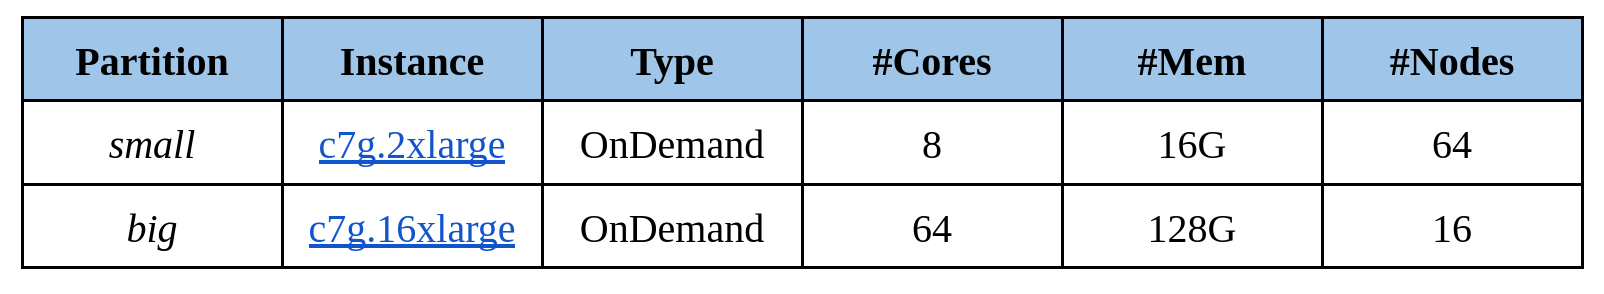
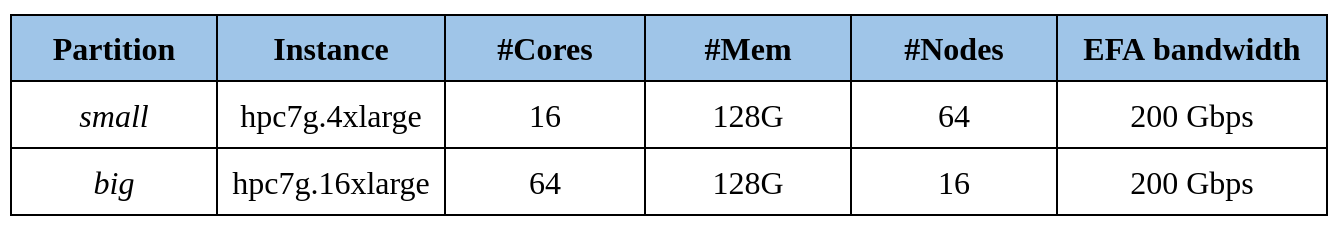
[AWS] -- second call -- updated documentation

diff --git a/docs/aws/setup.md b/docs/aws/setup.md
@@ -3,7 +3,348 @@
 AWS suggest to use Spack to setup your software environment. There is no hard requirement that you must use Spack. However we have included it here, as it is a quick, simple way to setup a development environment.
 The official ULHPC swsets are not available on the AWS cluster. If you prefer to use [EasyBuild](../environment/easybuild) or manually compile softwares, please refer to the [ULHPC software documentation](../software/build) for this purpose.
 
-## Install [Spack](ihttps://spack.io/)
+
+## Environment modules and LMod ##
+
+Like the ULHPC facility, the AWS cluster  relies on the [Environment Modules](http://modules.sourceforge.net/) / [LMod](http://lmod.readthedocs.io/en/latest/) framework which provided the [`module`](http://lmod.readthedocs.io) utility **on Compute nodes**
+to manage nearly all software.
+There are two main advantages of the `module` approach:
+
+1. ULHPC can provide many different versions and/or installations of a
+   single software package on a given machine, including a default
+   version as well as several older and newer version.
+2. Users can easily switch to different versions or installations
+   without having to explicitly specify different paths. With modules,
+   the `PATH` and related environment variables (`LD_LIBRARY_PATH`, `MANPATH`, etc.) are automatically managed.
+
+[Environment Modules](http://modules.sourceforge.net/) in itself are a standard and well-established technology across HPC sites, to permit developing and using complex software and libraries build with dependencies, allowing multiple versions of software stacks and combinations thereof to co-exist.
+It **brings the `module` command** which is used to manage environment variables such as `PATH`, `LD_LIBRARY_PATH` and `MANPATH`, enabling the easy loading and unloading of application/library profiles and their dependencies.
+
+See <https://hpc-docs.uni.lu/environment/modules/> for more details
+
+
+| Command                        | Description                                                   |
+|--------------------------------|---------------------------------------------------------------|
+| `module avail`                 | Lists all the modules which are available to be loaded        |
+| `module spider <pattern>`      | Search for <pattern> among available modules **(Lmod only)**  |
+| `module load <mod1> [mod2...]` | Load a module                                                 |
+| `module unload <module>`       | Unload a module                                               |
+| `module list`                  | List loaded modules                                           |
+| `module purge`                 | Unload all modules (purge)                                    |
+| `module display <module>`      | Display what a module does                                    |
+| `module use <path>`            | Prepend the directory to the MODULEPATH environment variable  |
+| `module unuse <path>`          | Remove the directory from the MODULEPATH environment variable |
+
+At the heart of environment modules interaction resides the following components:
+
+* the `MODULEPATH` environment variable, which defines the list of searched directories for modulefiles
+* `modulefile`
+
+Take a look at the current values:
+
+```bash
+$ echo $MODULEPATH
+/shared/apps/easybuild/modules/all:/usr/share/Modules/modulefiles:/etc/modulefiles:/usr/share/modulefiles/Linux:/usr/share/modulefiles/Core:/usr/share/lmod/lmod/modulefiles/Core
+$ module show toolchain/foss
+-------------------------------------------------------------------------------------------------------------------------------------------------------------------------------------------------------------------------------------------------------------------------------------------------------------------------------------------------
+   /shared/apps/easybuild/modules/all/toolchain/foss/2022b.lua:
+-------------------------------------------------------------------------------------------------------------------------------------------------------------------------------------------------------------------------------------------------------------------------------------------------------------------------------------------------
+help([[
+Description
+===========
+GNU Compiler Collection (GCC) based compiler toolchain, including
+ OpenMPI for MPI support, OpenBLAS (BLAS and LAPACK support), FFTW and ScaLAPACK.
+
+
+More information
+================
+ - Homepage: https://easybuild.readthedocs.io/en/master/Common-toolchains.html#foss-toolchain
+]])
+whatis("Description: GNU Compiler Collection (GCC) based compiler toolchain, including
+ OpenMPI for MPI support, OpenBLAS (BLAS and LAPACK support), FFTW and ScaLAPACK.")
+whatis("Homepage: https://easybuild.readthedocs.io/en/master/Common-toolchains.html#foss-toolchain")
+whatis("URL: https://easybuild.readthedocs.io/en/master/Common-toolchains.html#foss-toolchain")
+conflict("toolchain/foss")
+load("compiler/GCC/12.2.0")
+load("mpi/OpenMPI/4.1.4-GCC-12.2.0")
+load("lib/FlexiBLAS/3.2.1-GCC-12.2.0")
+load("numlib/FFTW/3.3.10-GCC-12.2.0")
+load("numlib/FFTW.MPI/3.3.10-gompi-2022b")
+load("numlib/ScaLAPACK/2.2.0-gompi-2022b-fb")
+setenv("EBROOTFOSS","/shared/apps/easybuild/software/foss/2022b")
+setenv("EBVERSIONFOSS","2022b")
+setenv("EBDEVELFOSS","/shared/apps/easybuild/software/foss/2022b/easybuild/toolchain-foss-2022b-easybuild-devel")
+```
+Now you can search for a given software using `module spider <pattern>`:
+
+```bash
+$  module spider lang/Python
+------------------------------------------------------------------------------------------------------------------------------------------------------------------------------------------------------------------------------------------------------------------------------------------------------------------
+  lang/Python:
+------------------------------------------------------------------------------------------------------------------------------------------------------------------------------------------------------------------------------------------------------------------------------------------------------------------
+    Description:
+      Python is a programming language that lets you work more quickly and integrate your systems more effectively.
+
+     Versions:
+        lang/Python/3.10.8-GCCcore-12.2.0-bare
+        lang/Python/3.10.8-GCCcore-12.2.0
+
+------------------------------------------------------------------------------------------------------------------------------------------------------------------------------------------------------------------------------------------------------------------------------------------------------------------
+  For detailed information about a specific "lang/Python" module (including how to load the modules) use the module's full name.
+  For example:
+
+     $ module spider lang/Python/3.10.8-GCCcore-12.2.0
+------------------------------------------------------------------------------------------------------------------------------------------------------------------------------------------------------------------------------------------------------------------------------------------------------------------
+```
+
+Let's see the effect of loading/unloading a module
+
+```bash
+$ module list
+No modules loaded
+$ which python
+/usr/bin/python
+$ python --version       # System level python
+Python 2.7.18
+
+$ module load lang/Python    # use TAB to auto-complete
+$ which python
+/shared/apps/easybuild/software/Python/3.10.8-GCCcore-12.2.0/bin/python
+$ python --version
+Python 3.10.8
+$ module purge
+```
+
+## Installing softwares with [Easybuild](https://easybuild.io/)
+
+[<img width='150px' src='https://easybuild.io/images/easybuild_logo_horizontal.png'/>](https://easybuilders.github.io/easybuild/)
+
+EasyBuild is a tool that allows to perform automated and reproducible compilation and installation of software. A large number of scientific software are supported (**[2995 supported software packages](http://easybuild.readthedocs.io/en/latest/version-specific/Supported_software.html)** in the last release 4.8.0) -- see also [What is EasyBuild?](http://easybuild.readthedocs.io/en/latest/Introduction.html)
+
+All builds and installations are performed at user level, so you don't need the admin (i.e. `root`) rights.
+The software are installed in your home directory under `$EASYBUILD_PREFIX` -- see <https://hpc-docs.uni.lu/environment/easybuild/>
+
+|                     | Default setting (local)  | Recommended setting       |
+|---------------------|--------------------------|---------------------------|
+| `$EASYBUILD_PREFIX` | `$HOME/.local/easybuild` | `/shared/apps/easybuild/` |
+|                     |                          |                           |
+
+* built software are placed under `${EASYBUILD_PREFIX}/software/`
+* modules install path `${EASYBUILD_PREFIX}/modules/all`
+
+
+### Easybuild main concepts
+
+See also the [official Easybuild Tutorial: "Maintaining a Modern Scientific Software Stack Made Easy with EasyBuild"](https://easybuilders.github.io/easybuild-tutorial/2021-isc21/)
+
+EasyBuild relies on two main concepts: *Toolchains* and *EasyConfig files*.
+
+A **toolchain** corresponds to a compiler and a set of libraries which are commonly used to build a software.
+The two main toolchains frequently used on the UL HPC platform are the `foss` ("_Free and Open Source Software_") and the `intel` one.
+
+1. `foss`  is based on the GCC compiler and on open-source libraries (OpenMPI, OpenBLAS, etc.).
+2. `intel` is based on the Intel compiler and on Intel libraries (Intel MPI, Intel Math Kernel Library, etc.).
+
+An **EasyConfig file** is a simple text file that describes the build process of a software. For most software that uses standard procedures (like `configure`, `make` and `make install`), this file is very simple.
+Many [EasyConfig files](https://github.com/easybuilders/easybuild-easyconfigs/tree/master/easybuild/easyconfigs) are already provided with EasyBuild.
+By default, EasyConfig files and generated modules are named using the following convention:
+`<Software-Name>-<Software-Version>-<Toolchain-Name>-<Toolchain-Version>`.
+However, we use a **hierarchical** approach where the software are classified under a category (or class) -- see  the `CategorizedModuleNamingScheme` option for the `EASYBUILD_MODULE_NAMING_SCHEME` environmental variable), meaning that the layout will respect the following hierarchy:
+`<Software-Class>/<Software-Name>/<Software-Version>-<Toolchain-Name>-<Toolchain-Version>`
+
+Additional details are available on EasyBuild website:
+
+- [EasyBuild homepage](https://easybuilders.github.io/easybuild/)
+- [EasyBuild documentation](http://easybuild.readthedocs.io/)
+- [What is EasyBuild?](http://easybuild.readthedocs.io/en/latest/Introduction.html)
+- [Toolchains](https://github.com/easybuilders/easybuild/wiki/Compiler-toolchains)
+- [EasyConfig files](http://easybuild.readthedocs.io/en/latest/Writing_easyconfig_files.html)
+- [List of supported software packages](http://easybuild.readthedocs.io/en/latest/version-specific/Supported_software.html)
+
+Easybuild is provided to you as a software module to complement the existing software set. 
+
+``` bash
+module load tools/EasyBuild
+```
+
+In case you cant to install the latest version yourself, please follow [the official instructions](http://easybuild.readthedocs.io/en/latest/Installation.html).
+Nonetheless, we strongly recommand to use the provided module.
+**Don't forget** to setup your local Easybuild configuration first.
+
+What is important for the installation of Easybuild are the following variables:
+
+* `EASYBUILD_PREFIX`: where to install **local** modules and software, _i.e._ `$HOME/.local/easybuild`
+* `EASYBUILD_MODULES_TOOL`: the type of [modules](http://modules.sourceforge.net/) tool you are using, _i.e._ `LMod` in this case
+* `EASYBUILD_MODULE_NAMING_SCHEME`: the way the software and modules should be organized (flat view or hierarchical) -- we're advising on `CategorizedModuleNamingScheme`
+
+!!! danger "Important"
+    * Recall that **you should be on a compute node to install [Easybuild](http://easybuild.readthedocs.io)** (otherwise the checks of the `module` command availability will fail.)
+
+### Install a missing software by complementing the software set
+
+The current software set contains the toolchain [foss-2022b](https://docs.easybuild.io/common-toolchains/#common_toolchains_update_cycle) that is necessary to build other softwares. We have build OpenMPI-4.1.4 to take in account the latest AWS EFA and the slurm integration.
+In order to install missing softwares for your project, you can complement the existing software set located at `/shared/apps/easybuild` by using the provided EasyBuild module (latest version).   
+Once Easybuild has been loaded, you can search and install new softwares. By default, these new softwares will be installed at `${HOME}/.local/easybuild`. Feel free to adapt the environment variable `${EASYBUILD_PREFIX}` to select a new installation directory. 
+
+Let's try to install a missing software
+
+``` bash
+(heanode)$ srun -p small -N 1 -n1 -c16  --pty bash -i
+(node)$ module spider HPL   # HPL is a software package that solves a (random) dense linear system in double precision (64 bits)
+Lmod has detected the following error:  Unable to find: "HPL".
+(node)$ module load tools/EasyBuild
+# Search for recipes for the missing software
+(node)$ eb -S HPL
+== found valid index for /shared/apps/easybuild/software/EasyBuild/4.8.0/easybuild/easyconfigs, so using it...
+CFGS1=/shared/apps/easybuild/software/EasyBuild/4.8.0/easybuild/easyconfigs
+ * $CFGS1/b/bashplotlib/bashplotlib-0.6.5-GCCcore-10.3.0.eb
+ * $CFGS1/h/HPL/HPL-2.1-foss-2016.04.eb
+ * $CFGS1/h/HPL/HPL-2.1-foss-2016.06.eb
+ * $CFGS1/h/HPL/HPL-2.1-foss-2016a.eb
+ * $CFGS1/h/HPL/HPL-2.1-foss-2016b.eb
+ ...
+ * $CFGS1/h/HPL/HPL-2.3-foss-2022a.eb
+ * $CFGS1/h/HPL/HPL-2.3-foss-2022b.eb
+ * $CFGS1/h/HPL/HPL-2.3-foss-2023a.eb
+ ...
+ * $CFGS1/h/HPL/HPL-2.3-intel-2022b.eb
+ * $CFGS1/h/HPL/HPL-2.3-intel-2023.03.eb
+ * $CFGS1/h/HPL/HPL-2.3-intel-2023a.eb
+ * $CFGS1/h/HPL/HPL-2.3-intelcuda-2019b.eb
+ * $CFGS1/h/HPL/HPL-2.3-intelcuda-2020a.eb
+ * $CFGS1/h/HPL/HPL-2.3-iomkl-2019.01.eb
+ * $CFGS1/h/HPL/HPL-2.3-iomkl-2021a.eb
+ * $CFGS1/h/HPL/HPL-2.3-iomkl-2021b.eb
+ * $CFGS1/h/HPL/HPL_parallel-make.patch
+```
+
+
+From this list, you should select the version matching the target toolchain version -- here [foss-2022b](https://docs.easybuild.io/common-toolchains/#common_toolchains_update_cycle).
+
+Once you pick a given recipy, install it with
+
+       eb <name>.eb [-D] -r
+
+* `-D` enables the dry-run mode to check what's going to be install -- **ALWAYS try it first**
+* `-r` enables the robot mode to automatically install all dependencies while searching for easyconfigs in a set of pre-defined directories -- you can also prepend new directories to search for eb files (like the current directory `$PWD`) using the option and syntax `--robot-paths=$PWD:` (do not forget the ':'). See [Controlling the robot search path documentation](http://easybuild.readthedocs.io/en/latest/Using_the_EasyBuild_command_line.html#controlling-the-robot-search-path)
+* The `$CFGS<n>/` prefix should be dropped unless you know what you're doing (and thus have previously defined the variable -- see the first output of the `eb -S [...]` command).
+
+Let's try to review the missing dependencies from a dry-run :
+
+``` bash
+# Select the one matching the target software set version
+(node)$ eb HPL-2.3-foss-2022b.eb -Dr   # Dry-run
+== Temporary log file in case of crash /tmp/eb-lzv785be/easybuild-ihga94y0.log
+== found valid index for /shared/apps/easybuild/software/EasyBuild/4.8.0/easybuild/easyconfigs, so using it...
+== found valid index for /shared/apps/easybuild/software/EasyBuild/4.8.0/easybuild/easyconfigs, so using it...
+Dry run: printing build status of easyconfigs and dependencies
+CFGS=/shared/apps/easybuild/software/EasyBuild/4.8.0/easybuild/easyconfigs
+ * [x] $CFGS/m/M4/M4-1.4.19.eb (module: devel/M4/1.4.19)
+ * [x] $CFGS/b/Bison/Bison-3.8.2.eb (module: lang/Bison/3.8.2)
+ * [x] $CFGS/f/flex/flex-2.6.4.eb (module: lang/flex/2.6.4)
+ * [x] $CFGS/z/zlib/zlib-1.2.12.eb (module: lib/zlib/1.2.12)
+ * [x] $CFGS/b/binutils/binutils-2.39.eb (module: tools/binutils/2.39)
+ * [x] $CFGS/g/GCCcore/GCCcore-12.2.0.eb (module: compiler/GCCcore/12.2.0)
+ * [x] $CFGS/z/zlib/zlib-1.2.12-GCCcore-12.2.0.eb (module: lib/zlib/1.2.12-GCCcore-12.2.0)
+ * [x] $CFGS/h/help2man/help2man-1.49.2-GCCcore-12.2.0.eb (module: tools/help2man/1.49.2-GCCcore-12.2.0)
+ * [x] $CFGS/m/M4/M4-1.4.19-GCCcore-12.2.0.eb (module: devel/M4/1.4.19-GCCcore-12.2.0)
+ * [x] $CFGS/b/Bison/Bison-3.8.2-GCCcore-12.2.0.eb (module: lang/Bison/3.8.2-GCCcore-12.2.0)
+ * [x] $CFGS/f/flex/flex-2.6.4-GCCcore-12.2.0.eb (module: lang/flex/2.6.4-GCCcore-12.2.0)
+ * [x] $CFGS/b/binutils/binutils-2.39-GCCcore-12.2.0.eb (module: tools/binutils/2.39-GCCcore-12.2.0)
+ * [x] $CFGS/p/pkgconf/pkgconf-1.9.3-GCCcore-12.2.0.eb (module: devel/pkgconf/1.9.3-GCCcore-12.2.0)
+ * [x] $CFGS/g/groff/groff-1.22.4-GCCcore-12.2.0.eb (module: tools/groff/1.22.4-GCCcore-12.2.0)
+ * [x] $CFGS/n/ncurses/ncurses-6.3-GCCcore-12.2.0.eb (module: devel/ncurses/6.3-GCCcore-12.2.0)
+ * [x] $CFGS/e/expat/expat-2.4.9-GCCcore-12.2.0.eb (module: tools/expat/2.4.9-GCCcore-12.2.0)
+ * [x] $CFGS/b/bzip2/bzip2-1.0.8-GCCcore-12.2.0.eb (module: tools/bzip2/1.0.8-GCCcore-12.2.0)
+ * [x] $CFGS/g/GCC/GCC-12.2.0.eb (module: compiler/GCC/12.2.0)
+ * [x] $CFGS/f/FFTW/FFTW-3.3.10-GCC-12.2.0.eb (module: numlib/FFTW/3.3.10-GCC-12.2.0)
+ * [x] $CFGS/u/UnZip/UnZip-6.0-GCCcore-12.2.0.eb (module: tools/UnZip/6.0-GCCcore-12.2.0)
+ * [x] $CFGS/l/libreadline/libreadline-8.2-GCCcore-12.2.0.eb (module: lib/libreadline/8.2-GCCcore-12.2.0)
+ * [x] $CFGS/l/libtool/libtool-2.4.7-GCCcore-12.2.0.eb (module: lib/libtool/2.4.7-GCCcore-12.2.0)
+ * [x] $CFGS/m/make/make-4.3-GCCcore-12.2.0.eb (module: devel/make/4.3-GCCcore-12.2.0)
+ * [x] $CFGS/t/Tcl/Tcl-8.6.12-GCCcore-12.2.0.eb (module: lang/Tcl/8.6.12-GCCcore-12.2.0)
+ * [x] $CFGS/p/pkgconf/pkgconf-1.8.0.eb (module: devel/pkgconf/1.8.0)
+ * [x] $CFGS/s/SQLite/SQLite-3.39.4-GCCcore-12.2.0.eb (module: devel/SQLite/3.39.4-GCCcore-12.2.0)
+ * [x] $CFGS/o/OpenSSL/OpenSSL-1.1.eb (module: system/OpenSSL/1.1)
+ * [x] $CFGS/l/libevent/libevent-2.1.12-GCCcore-12.2.0.eb (module: lib/libevent/2.1.12-GCCcore-12.2.0)
+ * [x] $CFGS/c/cURL/cURL-7.86.0-GCCcore-12.2.0.eb (module: tools/cURL/7.86.0-GCCcore-12.2.0)
+ * [x] $CFGS/d/DB/DB-18.1.40-GCCcore-12.2.0.eb (module: tools/DB/18.1.40-GCCcore-12.2.0)
+ * [x] $CFGS/p/Perl/Perl-5.36.0-GCCcore-12.2.0.eb (module: lang/Perl/5.36.0-GCCcore-12.2.0)
+ * [x] $CFGS/a/Autoconf/Autoconf-2.71-GCCcore-12.2.0.eb (module: devel/Autoconf/2.71-GCCcore-12.2.0)
+ * [x] $CFGS/a/Automake/Automake-1.16.5-GCCcore-12.2.0.eb (module: devel/Automake/1.16.5-GCCcore-12.2.0)
+ * [x] $CFGS/a/Autotools/Autotools-20220317-GCCcore-12.2.0.eb (module: devel/Autotools/20220317-GCCcore-12.2.0)
+ * [x] $CFGS/n/numactl/numactl-2.0.16-GCCcore-12.2.0.eb (module: tools/numactl/2.0.16-GCCcore-12.2.0)
+ * [x] $CFGS/u/UCX/UCX-1.13.1-GCCcore-12.2.0.eb (module: lib/UCX/1.13.1-GCCcore-12.2.0)
+ * [x] $CFGS/l/libfabric/libfabric-1.16.1-GCCcore-12.2.0.eb (module: lib/libfabric/1.16.1-GCCcore-12.2.0)
+ * [x] $CFGS/l/libffi/libffi-3.4.4-GCCcore-12.2.0.eb (module: lib/libffi/3.4.4-GCCcore-12.2.0)
+ * [x] $CFGS/x/xorg-macros/xorg-macros-1.19.3-GCCcore-12.2.0.eb (module: devel/xorg-macros/1.19.3-GCCcore-12.2.0)
+ * [x] $CFGS/l/libpciaccess/libpciaccess-0.17-GCCcore-12.2.0.eb (module: system/libpciaccess/0.17-GCCcore-12.2.0)
+ * [x] $CFGS/u/UCC/UCC-1.1.0-GCCcore-12.2.0.eb (module: lib/UCC/1.1.0-GCCcore-12.2.0)
+ * [x] $CFGS/n/ncurses/ncurses-6.3.eb (module: devel/ncurses/6.3)
+ * [x] $CFGS/g/gettext/gettext-0.21.1.eb (module: tools/gettext/0.21.1)
+ * [x] $CFGS/x/XZ/XZ-5.2.7-GCCcore-12.2.0.eb (module: tools/XZ/5.2.7-GCCcore-12.2.0)
+ * [x] $CFGS/p/Python/Python-3.10.8-GCCcore-12.2.0-bare.eb (module: lang/Python/3.10.8-GCCcore-12.2.0-bare)
+ * [x] $CFGS/b/BLIS/BLIS-0.9.0-GCC-12.2.0.eb (module: numlib/BLIS/0.9.0-GCC-12.2.0)
+ * [x] $CFGS/o/OpenBLAS/OpenBLAS-0.3.21-GCC-12.2.0.eb (module: numlib/OpenBLAS/0.3.21-GCC-12.2.0)
+ * [x] $CFGS/l/libarchive/libarchive-3.6.1-GCCcore-12.2.0.eb (module: tools/libarchive/3.6.1-GCCcore-12.2.0)
+ * [x] $CFGS/l/libxml2/libxml2-2.10.3-GCCcore-12.2.0.eb (module: lib/libxml2/2.10.3-GCCcore-12.2.0)
+ * [x] $CFGS/c/CMake/CMake-3.24.3-GCCcore-12.2.0.eb (module: devel/CMake/3.24.3-GCCcore-12.2.0)
+ * [ ] $CFGS/h/hwloc/hwloc-2.8.0-GCCcore-12.2.0.eb (module: system/hwloc/2.8.0-GCCcore-12.2.0)
+ * [ ] $CFGS/p/PMIx/PMIx-4.2.2-GCCcore-12.2.0.eb (module: lib/PMIx/4.2.2-GCCcore-12.2.0)
+ * [x] $CFGS/o/OpenMPI/OpenMPI-4.1.4-GCC-12.2.0.eb (module: mpi/OpenMPI/4.1.4-GCC-12.2.0)
+ * [x] $CFGS/f/FlexiBLAS/FlexiBLAS-3.2.1-GCC-12.2.0.eb (module: lib/FlexiBLAS/3.2.1-GCC-12.2.0)
+ * [x] $CFGS/g/gompi/gompi-2022b.eb (module: toolchain/gompi/2022b)
+ * [x] $CFGS/f/FFTW.MPI/FFTW.MPI-3.3.10-gompi-2022b.eb (module: numlib/FFTW.MPI/3.3.10-gompi-2022b)
+ * [x] $CFGS/s/ScaLAPACK/ScaLAPACK-2.2.0-gompi-2022b-fb.eb (module: numlib/ScaLAPACK/2.2.0-gompi-2022b-fb)
+ * [x] $CFGS/f/foss/foss-2022b.eb (module: toolchain/foss/2022b)
+ * [ ] $CFGS/h/HPL/HPL-2.3-foss-2022b.eb (module: tools/HPL/2.3-foss-2022b)
+== Temporary log file(s) /tmp/eb-lzv785be/easybuild-ihga94y0.log* have been removed.
+== Temporary directory /tmp/eb-lzv785be has been removed.
+```
+Let's try to install it (remove the `-D`):
+
+``` bash
+# Select the one matching the target software set version
+(node)$ eb HPL-2.3-foss-2022b.eb -r
+```
+From now on, you should be able to see the new module.
+
+```bash
+(node)$  module spider HPL
+------------------------------------------------------------------------------------------------------------------------------------------------------------------------------------------------------------------------------------------------------------------------------------------------------------------
+  tools/HPL: tools/HPL/2.3-foss-2022b
+------------------------------------------------------------------------------------------------------------------------------------------------------------------------------------------------------------------------------------------------------------------------------------------------------------------
+    Description:
+      HPL is a software package that solves a (random) dense linear system in double precision (64 bits) arithmetic on distributed-memory computers. It can thus be regarded as a portable as well as freely available implementation of the High Performance Computing Linpack Benchmark.
+
+
+    This module can be loaded directly: module load tools/HPL/2.3-foss-2022b
+
+    Help:
+      
+      Description
+      ===========
+      HPL is a software package that solves a (random) dense linear system in double precision (64 bits)
+       arithmetic on distributed-memory computers. It can thus be regarded as a portable as well as freely available
+       implementation of the High Performance Computing Linpack Benchmark.
+      
+      
+      More information
+      ================
+       - Homepage: https://www.netlib.org/benchmark/hpl/
+
+```
+
+
+**Tips**: When you load a module `<NAME>` generated by Easybuild, it is installed within the directory reported by the `$EBROOT<NAME>` variable.
+In the above case, you will find the generated binary in `${EBROOTHPL}/`.
+
+
+
+
+
+
+## Installing softwares with [Spack](ihttps://spack.io/)
 
 * To do this, please clone the Spack GitHub repository into a `SPACK_ROOT` which is defined to be on a your project directory, i.e., `/shared/project/<project_id>`.
 

diff --git a/docs/aws/overview.md b/docs/aws/overview.md
@@ -19,7 +19,7 @@ After initial project selection by a steering committee that includes representa
 
 ## System description and environment 
 
-The AWS Parallel Cluster based on the new Graviton3 (all instances and storage located in US-EAST-1) will provide cloud computing services to Uni.lu that will support the development, design, and testing of numerical codes, which traditionally demands a lot of compute power. This will give researchers an accessible, easy-to-use, end-to-end environment in which they can validate their simulation codes on ARM64 architectures, including servers, personal computers, and Internet of Things (IoT). The cluster will consist in two main partitions and jobs will be submitted using the [Slurm scheduler](https://slurm.schedmd.com/documentation.html) :
+The AWS Parallel Cluster based on the new [HPC-based Graviton3 instances](https://aws.amazon.com/ec2/instance-types/hpc7g/) (all instances and storage located in US-EAST-1) will provide cloud computing services to Uni.lu that will support the development, design, and testing of numerical codes, which traditionally demands a lot of compute power. This will give researchers an accessible, easy-to-use, end-to-end environment in which they can validate their simulation codes on ARM64 architectures, including servers, personal computers, and Internet of Things (IoT). The cluster will consist in two main partitions and jobs will be submitted using the [Slurm scheduler](https://slurm.schedmd.com/documentation.html) :
 
 
 

diff --git a/docs/aws/connection.md b/docs/aws/connection.md
@@ -8,7 +8,7 @@ Once your account has been enabled, you can connect to the cluster using ssh. Co
 To create a direct connection, use the command below (using your specific cluster name if it differs from workshop-cluster).
 
 ```bash
-ssh -i sshkey.pem username@ec2-44-209-227-16.compute-1.amazonaws.com
+ssh -i id_rsa username@ec2-52-5-167-162.compute-1.amazonaws.com 
 ```
 This will open a direct, non-graphical connection in the terminal. To exit the remote terminal session, use the standard Linux command “exit”.
 
@@ -17,7 +17,7 @@ Alternatively, you may want to save the configuration of this connection (and cr
 ```bash
 Host aws-ulhpc-access
   User username
-  Hostname ec2-44-209-227-16.compute-1.amazonaws.com
+  Hostname ec2-52-5-167-162.compute-1.amazonaws.com 
   IdentityFile ~/.ssh/id_rsa
   IdentitiesOnly yes
 ```
